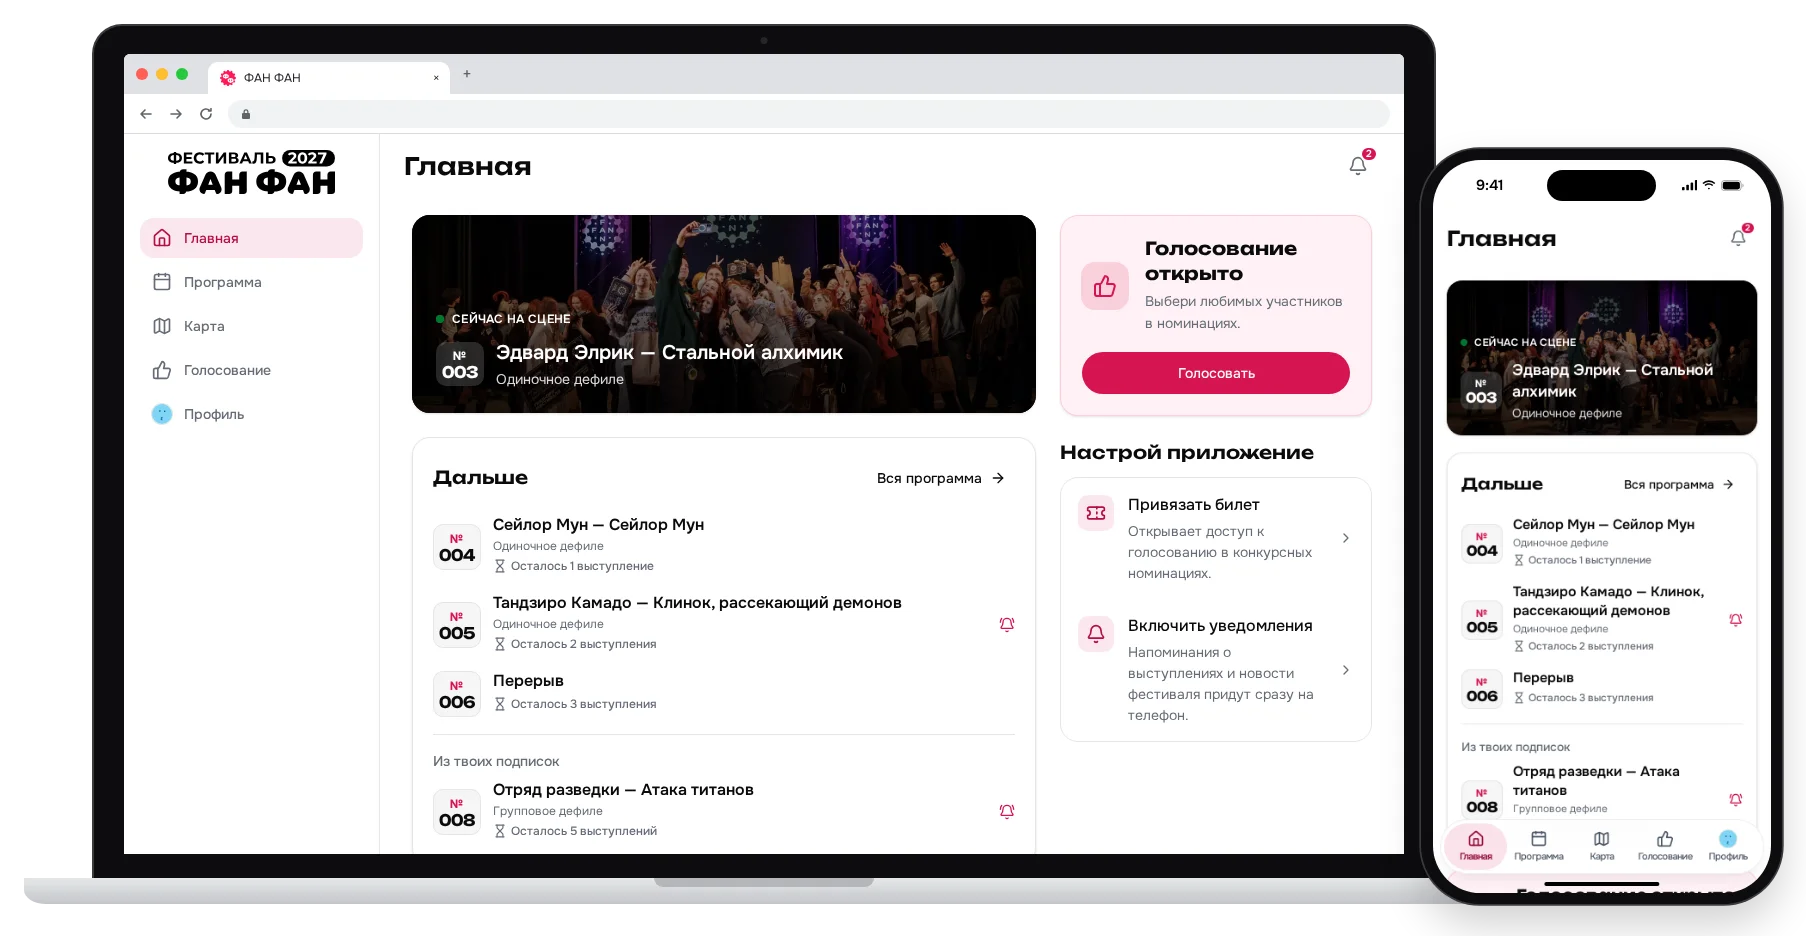
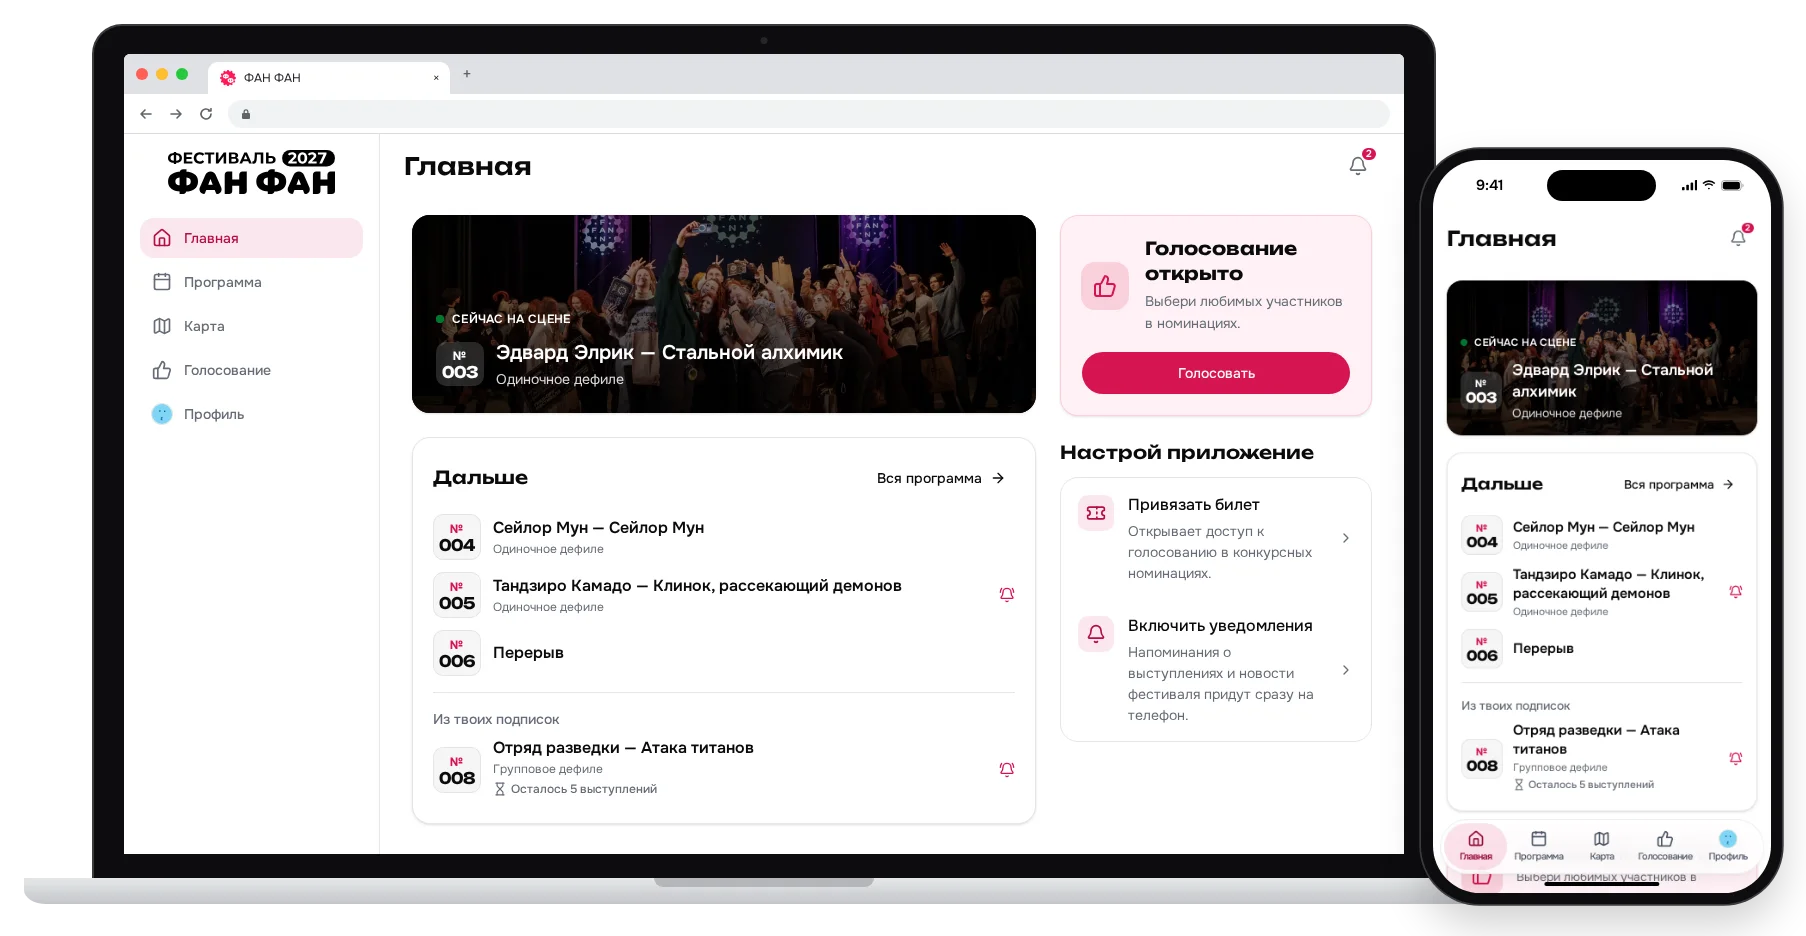
feat(home): trim home to what each festival phase needs
Before the festival the date, doors and start time move into the hero
under the countdown. They were screen-reader-only there, which is why
they came back as pills further down; now they sit where the countdown
already answers "when", and the pills are gone.

The «Дальше» card drops the «Осталось N» line from the next three acts,
since their order already says it, and keeps it on the subscribed act
further down the programme.

«На связи» changes from five full-width rows to one wrapped row of
labelled buttons (ContactLinks). It was the longest block on Home and
the least used. The email button shows the address itself, because a
phone with no mail app set up can't follow mailto:.

After the festival the venue, rules and activity articles are hidden,
so Home is the farewell with feedback, then the contacts.

Claude-Session: https://claude.ai/code/session_01KX6oFemeyNUUww5DpUWJfz

Changed region(s): [[0.2171, 0.5577, 0.4961, 0.8985], [0.8062, 0.5577, 0.9612, 0.8675], [0.8062, 0.9295, 0.9302, 0.9605]]

diff --git a/frontend/src/routes/(app)/components/home/GuideSections.svelte b/frontend/src/routes/(app)/components/home/GuideSections.svelte
@@ -1,104 +1,28 @@
 <script lang="ts">
-	import type { Component } from 'svelte';
-
-	import Globe from '@lucide/svelte/icons/globe';
-	import Mail from '@lucide/svelte/icons/mail';
 	import MapPin from '@lucide/svelte/icons/map-pin';
-	import MessageCircle from '@lucide/svelte/icons/message-circle';
 	import ScrollText from '@lucide/svelte/icons/scroll-text';
-	import IconTelegram from '~icons/simple-icons/telegram';
-	import IconVk from '~icons/simple-icons/vk';
 
 	import MenuGroup from '#lib/components/MenuGroup.svelte';
 	import MenuRow from '#lib/components/MenuRow.svelte';
 	import { guideArticles } from '#lib/data/guideArticles.js';
 	import { m } from '#lib/paraglide/messages.js';
-	import { formatFestivalDate, formatFestivalTime } from '#lib/utils/formatters.js';
-
-	interface Props {
-		/** The configured start, the same one the hero counts down to. */
-		festivalStart: string;
-	}
-
-	let { festivalStart }: Props = $props();
-
-	// Before the festival the hero shows only a countdown, so the date and start
-	// are spelled out here for anyone planning the trip. The doors time isn't in
-	// the config.
-	let facts = $derived([
-		formatFestivalDate(festivalStart),
-		m.guide_doors(),
-		m.guide_start({ time: formatFestivalTime(festivalStart) })
-	]);
 
 	// A text search, so there are no coordinates to keep in step with the venue.
 	// https://yandex.com/dev/yandex-apps-launch-maps/doc/en/concepts/yandexmaps-web
 	const yandexMapsUrl = `https://yandex.ru/maps/?text=${encodeURIComponent('Нижний Новгород, ДК ГАЗ')}`;
-
-	interface ContactLink {
-		href: string;
-		label: () => string;
-		/** The handle or address, so a row is recognisable without its icon. */
-		handle: string;
-		icon: Component;
-		/** mailto: stays in the app's tab; web links open elsewhere. */
-		external: boolean;
-	}
-
-	const contactLinks: ContactLink[] = [
-		{
-			href: 'https://fancom.info/',
-			label: m.guide_website,
-			handle: 'fancom.info',
-			icon: Globe,
-			external: true
-		},
-		{
-			href: 'https://vk.com/ffest_nn',
-			label: m.guide_vk,
-			handle: 'vk.com/ffest_nn',
-			icon: IconVk,
-			external: true
-		},
-		{
-			href: 'https://t.me/fanfan_fest_news',
-			label: m.guide_telegram,
-			handle: 't.me/fanfan_fest_news',
-			icon: IconTelegram,
-			external: true
-		},
-		{
-			href: 'https://max.ru/ffest_nn',
-			label: m.guide_max,
-			handle: 'max.ru/ffest_nn',
-			icon: MessageCircle,
-			external: true
-		},
-		{
-			href: 'mailto:orgcom.fan@mail.ru',
-			label: m.guide_email,
-			handle: 'orgcom.fan@mail.ru',
-			icon: Mail,
-			external: false
-		}
-	];
 </script>
 
 <!-- The festival guide under Home's live cards: grouped rows that each lead somewhere,
      the phone-settings shape for "drill in"
      (https://developer.apple.com/design/human-interface-guidelines/lists-and-tables),
      so every target is a full-width tap. Each head sits over three times nearer its list than the block before it, so it
-     reads as that list's title (https://practicaltypography.com/space-above-and-below.html). -->
+     reads as that list's title (https://practicaltypography.com/space-above-and-below.html).
+     The date and times are the hero's, so they aren't repeated here. -->
 <div class="flex flex-col gap-10">
 	<section aria-labelledby="guide-important" class="flex flex-col gap-3">
 		<h2 id="guide-important" class="px-1 text-section text-foreground">
 			{m.guide_important_heading()}
 		</h2>
-		<ul class="flex flex-wrap gap-2 px-1">
-			{#each facts as fact (fact)}
-				<li class="rounded-full bg-muted px-3 py-1 text-sm font-medium">{fact}</li>
-			{/each}
-		</ul>
 		<MenuGroup>
 			<MenuRow
 				externalHref={yandexMapsUrl}
@@ -128,24 +52,6 @@
 					label={article.title}
 					description={article.description}
 					icon={article.icon}
-				/>
-			{/each}
-		</MenuGroup>
-	</section>
-
-	<!-- Rarely needed on the day, so last. -->
-	<section aria-labelledby="guide-contacts" class="flex flex-col gap-3">
-		<h2 id="guide-contacts" class="px-1 text-section text-foreground">
-			{m.guide_contacts_heading()}
-		</h2>
-		<MenuGroup>
-			{#each contactLinks as link (link.href)}
-				<MenuRow
-					externalHref={link.href}
-					newTab={link.external}
-					label={link.label()}
-					description={link.handle}
-					icon={link.icon}
 				/>
 			{/each}
 		</MenuGroup>

diff --git a/frontend/src/routes/(app)/components/home/ContactLinks.svelte b/frontend/src/routes/(app)/components/home/ContactLinks.svelte
@@ -1,0 +1,66 @@
+<script lang="ts">
+	import type { Component } from 'svelte';
+
+	import Globe from '@lucide/svelte/icons/globe';
+	import Mail from '@lucide/svelte/icons/mail';
+	import MessageCircle from '@lucide/svelte/icons/message-circle';
+	import IconTelegram from '~icons/simple-icons/telegram';
+	import IconVk from '~icons/simple-icons/vk';
+
+	import { Button } from '#lib/components/ui/button/index.js';
+	import { m } from '#lib/paraglide/messages.js';
+
+	interface ContactLink {
+		href: string;
+		label: () => string;
+		icon: Component;
+		/** mailto: stays in the app's tab; web links open elsewhere. */
+		external: boolean;
+	}
+
+	// The address is the label rather than «Почта»: a phone with no mail app set up
+	// can't follow mailto:, and then the address is what the visitor copies.
+	const EMAIL = 'orgcom.fan@mail.ru';
+
+	const contactLinks: ContactLink[] = [
+		{ href: 'https://fancom.info/', label: m.guide_website, icon: Globe, external: true },
+		{ href: 'https://vk.com/ffest_nn', label: m.guide_vk, icon: IconVk, external: true },
+		{
+			href: 'https://t.me/fanfan_fest_news',
+			label: m.guide_telegram,
+			icon: IconTelegram,
+			external: true
+		},
+		{ href: 'https://max.ru/ffest_nn', label: m.guide_max, icon: MessageCircle, external: true },
+		{ href: `mailto:${EMAIL}`, label: () => EMAIL, icon: Mail, external: false }
+	];
+</script>
+
+<!-- Rarely needed on the day, so last, and as one wrapped row of labelled buttons
+     rather than a list: five full-width rows would be the longest block on Home for
+     its least-used links. Labelled, not icon-only, since a globe or a speech bubble
+     doesn't say which channel it is (https://www.nngroup.com/articles/icon-usability/). -->
+<section aria-labelledby="guide-contacts" class="flex flex-col gap-3">
+	<h2 id="guide-contacts" class="px-1 text-section text-foreground">
+		{m.guide_contacts_heading()}
+	</h2>
+	<ul class="flex flex-wrap gap-2">
+		{#each contactLinks as link (link.href)}
+			<li>
+				<Button
+					href={link.href}
+					target={link.external ? '_blank' : undefined}
+					rel={link.external ? 'noopener noreferrer' : undefined}
+					variant="outline"
+					size="sm"
+				>
+					<link.icon data-icon="inline-start" aria-hidden="true" />
+					{link.label()}
+					{#if link.external}
+						<span class="sr-only">({m.guide_opens_in_new_tab()})</span>
+					{/if}
+				</Button>
+			</li>
+		{/each}
+	</ul>
+</section>

diff --git a/frontend/src/routes/(app)/components/home/HeroCard.svelte b/frontend/src/routes/(app)/components/home/HeroCard.svelte
@@ -4,7 +4,11 @@
 	import { Button } from '#lib/components/ui/button/index.js';
 	import { m } from '#lib/paraglide/messages.js';
 	import { documentVisibility } from '#lib/services/documentVisibility.js';
-	import { formatEventNumber, formatFestivalDateTime } from '#lib/utils/formatters.js';
+	import {
+		formatEventNumber,
+		formatFestivalDate,
+		formatFestivalTime
+	} from '#lib/utils/formatters.js';
 
 	import type { FestivalPhase } from './festivalPhase';
 	import type { FeaturedAct } from './stage';
@@ -24,7 +28,9 @@
 	// Program start, on the venue clock. Configurable via GET /config and passed in
 	// by the page so the hero renders for guests and on a cold/offline load.
 	let startMs = $derived(new Date(festivalStart).getTime());
-	let festivalDate = $derived(formatFestivalDateTime(festivalStart));
+	let festivalDate = $derived(formatFestivalDate(festivalStart));
+	// The doors time isn't in the config, so it is written into the message.
+	let festivalTimes = $derived(m.home_festival_times({ time: formatFestivalTime(festivalStart) }));
 
 	let now = $state(Date.now());
 
@@ -117,7 +123,7 @@
 			<h2 id="hero-heading" class="text-xs font-semibold tracking-wide text-white uppercase">
 				{m.home_before_festival()}
 			</h2>
-			<!-- Hide the live-ticking grid from screen readers; the static start date conveys it -->
+			<!-- Hide the live-ticking grid from screen readers; the date below conveys it -->
 			<div class="grid max-w-md grid-cols-4 gap-2" aria-hidden="true">
 				{#each units as unit, index (unit.id)}
 					<div
@@ -147,7 +153,12 @@
 					</div>
 				{/each}
 			</div>
-			<p class="sr-only">{m.home_festival_start({ date: festivalDate })}</p>
+			<!-- The answer to "when is it" for anyone planning the trip, so it sits in
+				 the hero rather than in a list further down. -->
+			<div>
+				<p class="text-base leading-snug font-semibold">{festivalDate}</p>
+				<p class="mt-0.5 text-sm text-white/85">{festivalTimes}</p>
+			</div>
 		{:else if phase === 'during' && featured}
 			<h2
 				id="hero-heading"

diff --git a/frontend/e2e/specs/guide.spec.ts b/frontend/e2e/specs/guide.spec.ts
@@ -18,7 +18,7 @@ test.describe('guide articles', () => {
 		await expect(page).toHaveURL('/');
 	});
 
-	test('Home spells out the date and start time from the saved festival settings', async ({
+	test('the Home hero spells out the date and start time from the saved festival settings', async ({
 		page,
 		api
 	}) => {
@@ -34,7 +34,24 @@ test.describe('guide articles', () => {
 		await page.goto('/');
 
 		await expect(page.getByText('1 апреля 2027, четверг', { exact: true })).toBeVisible();
-		await expect(page.getByText('Начало в 09:00', { exact: true })).toBeVisible();
+		await expect(page.getByText('Вход с 10:30 · начало в 09:00', { exact: true })).toBeVisible();
+	});
+
+	test('after the festival Home keeps only the ways to stay in touch', async ({ page, api }) => {
+		api.use({
+			'GET /config': json({
+				festival_start: '2020-04-01T09:00:00+03:00',
+				festival_end: '2020-04-01T19:00:00+03:00',
+				quest_enabled: false,
+				quest_max_award: 100
+			})
+		});
+
+		await page.goto('/');
+
+		await expect(page.getByRole('heading', { name: 'Фестиваль завершён' })).toBeVisible();
+		await expect(page.getByRole('link', { name: /Telegram/ })).toBeVisible();
+		await expect(page.getByRole('heading', { name: 'Чем заняться' })).toHaveCount(0);
 	});
 
 	test('an unknown article shows the error page', async ({ page }) => {

diff --git a/frontend/src/routes/(app)/components/home/UpNextCard.svelte b/frontend/src/routes/(app)/components/home/UpNextCard.svelte
@@ -27,9 +27,11 @@
 	}
 </script>
 
-{#snippet eventRow(event: ScheduleEventWithSubscription)}
+<!-- The acts up next are consecutive, so their order already says how far off
+     each one is; only the subscribed act further down the programme gets a distance. -->
+{#snippet eventRow(event: ScheduleEventWithSubscription, showUntil: boolean)}
 	{const number = $derived(formatEventNumber(event.number))}
-	{const until = $derived(untilLabel(event))}
+	{const until = $derived(showUntil ? untilLabel(event) : null)}
 	<div class="flex min-w-0 items-center gap-3">
 		{#if number !== null}
 			<NumberBadge {number} />
@@ -79,7 +81,7 @@
 	{#if snapshot.upNext.length > 0}
 		<ol class="flex flex-col gap-3">
 			{#each snapshot.upNext as event (event.id)}
-				<li>{@render eventRow(event)}</li>
+				<li>{@render eventRow(event, false)}</li>
 			{/each}
 		</ol>
 	{/if}
@@ -87,7 +89,7 @@
 	{#if snapshot.nextSubscribed}
 		<div class="flex flex-col gap-2 border-t border-border pt-4">
 			<h3 class="text-sm font-medium text-muted-foreground">{m.home_from_subscriptions()}</h3>
-			{@render eventRow(snapshot.nextSubscribed)}
+			{@render eventRow(snapshot.nextSubscribed, true)}
 		</div>
 	{/if}
 </section>

diff --git a/frontend/src/routes/(app)/+page.svelte b/frontend/src/routes/(app)/+page.svelte
@@ -23,6 +23,7 @@
 	import { mergeSubscriptions, scheduleEvents } from '#lib/utils/scheduleData.js';
 	import { hasVotingEnded, isVotingOpenNow } from '#lib/utils/votingStatus.js';
 
+	import ContactLinks from './components/home/ContactLinks.svelte';
 	import { getFestivalPhase, nextBoundary } from './components/home/festivalPhase';
 	import GetReadySection from './components/home/GetReadySection.svelte';
 	import GuideSections from './components/home/GuideSections.svelte';
@@ -232,5 +233,11 @@
 		</div>
 	{/if}
 
-	<GuideSections festivalStart={config.festival_start} />
+	<!-- Once the festival is over the venue, rules and activities lead nowhere useful,
+	     so Home is down to the farewell and the ways to stay in touch. -->
+	{#if phase !== 'after'}
+		<GuideSections />
+	{/if}
+
+	<ContactLinks />
 </div>
